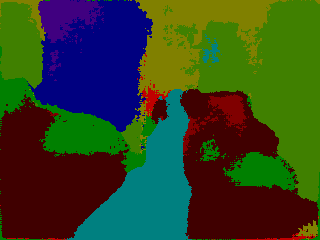
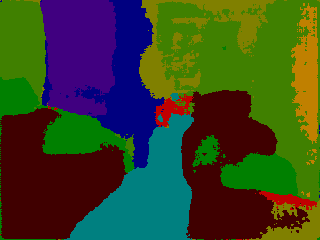
Atualizacao dos resultados

diff --git a/relatorio/main.tex b/relatorio/main.tex
@@ -173,7 +173,7 @@ Há um outro fator para o canal de profundidade não fornecer ganhos à FuseNet:
 
 Isso explica também por que o modelo que mantém apenas ligado o bloco de fusão da CBR5 da FuseNet obteve a melhor performance nos experimentos, suplantando todos os demais. Em decorrência da limitação das CNNs supracitada e do fato de as primeiras convoluções de profundidade da VGG-16 serem maiores (\eg, 224x224 ou 112x112), o que as torna mais ruidosas, os primeiros blocos de fusão do ~\textit{branch depth} no RGB acabam por atrapalhar a convergência do modelo, sendo portanto melhor desligá-los.
 
-Tendo a modificação da FuseNet na qual se manteve ligada apenas a fusão do CBR5, treinou-se esse modelo existoso com mais 150 épocas, em um total de 200 épocas, obtendo um total de $IoU = 29,39\%$. Os resultados dos testes desse modelo novamente treinado são discriminados na figura ~\ref{fig:resultados}.
+Tendo a modificação da FuseNet na qual se manteve ligada apenas a fusão do CBR5, treinou-se esse modelo existoso com mais 340 épocas, em um total de 390 épocas, obtendo um total de $IoU = 40,58\%$. Os resultados dos testes desse modelo novamente treinado são discriminados na figura ~\ref{fig:resultados}.
 
 
 % TODO: Copiar as figuras
